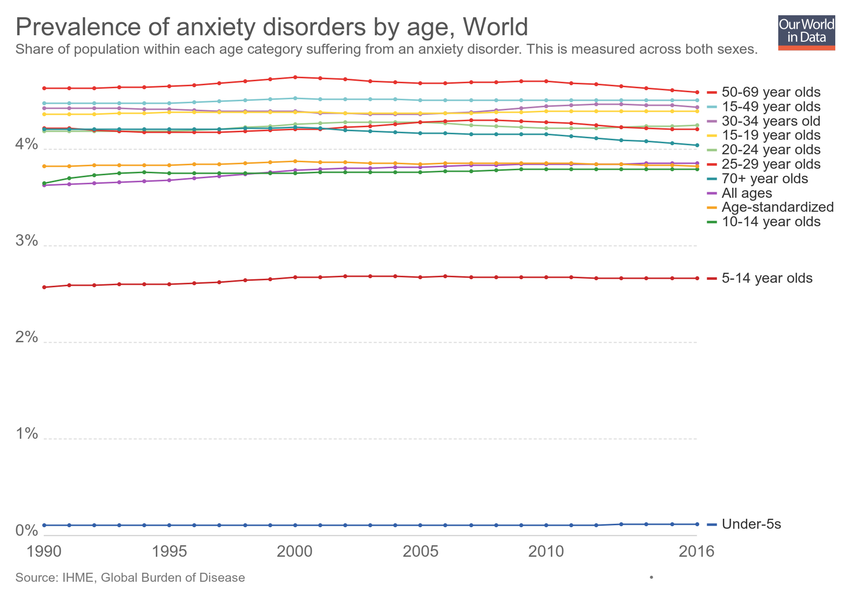
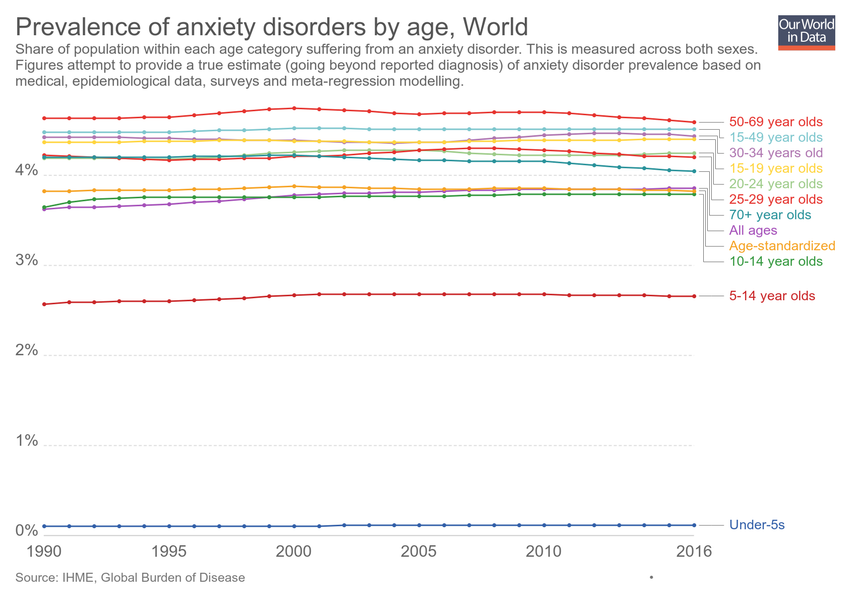
Updating chart prevalence-of-anxiety-disorders-by-age

diff --git a/grapher/rate-of-internationally-observed-elections.html b/grapher/rate-of-internationally-observed-elections.html
@@ -1,4 +1,4 @@
-<!doctype html><html><head><meta name="viewport" content="width=device-width, initial-scale=1" /><title>Internationally observed elections by Western monitors - Our World in Data</title><meta name="description" content="Estimates correspond to the number of international elections that were either observed and criticized by Western monitors, observed and not criticized by Western monitors, or elections that were not observed by Western monitors. Criticism refers to allegations of significant vote-fraud." /><link rel="canonical" href="https://ourworldindata.org/grapher/rate-of-internationally-observed-elections" /><meta property="fb:app_id" content="1149943818390250" /><meta property="og:url" content="https://ourworldindata.org/grapher/rate-of-internationally-observed-elections" /><meta property="og:title" content="Internationally observed elections by Western monitors" /><meta property="og:description" content="Estimates correspond to the number of international elections that were either observed and criticized by Western monitors, observed and not criticized by Western monitors, or elections that were not observed by Western monitors. Criticism refers to allegations of significant vote-fraud." /><meta property="og:image" content="https://ourworldindata.org/grapher/exports/rate-of-internationally-observed-elections.png?v=9" /><meta property="og:image:width" content="850" /><meta property="og:image:height" content="600" /><meta property="og:site_name" content="Our World in Data" /><meta name="twitter:card" content="summary_large_image" /><meta name="twitter:site" content="@OurWorldInData" /><meta name="twitter:creator" content="@OurWorldInData" /><meta name="twitter:title" content="Internationally observed elections by Western monitors" /><meta name="twitter:description" content="Estimates correspond to the number of international elections that were either observed and criticized by Western monitors, observed and not criticized by Western monitors, or elections that were not observed by Western monitors. Criticism refers to allegations of significant vote-fraud." /><meta name="twitter:image" content="https://ourworldindata.org/grapher/exports/rate-of-internationally-observed-elections.png?v=9" /><style>
+<!doctype html><html><head><meta name="viewport" content="width=device-width, initial-scale=1" /><title>Internationally observed elections (%) - Our World in Data</title><meta name="description" content="Percentage of internationally observed elections and whether they were criticized by international observers. Figures cover 1,754 election events in 157 independent states, excluding those with population less than 250,000." /><link rel="canonical" href="https://ourworldindata.org/grapher/rate-of-internationally-observed-elections" /><meta property="fb:app_id" content="1149943818390250" /><meta property="og:url" content="https://ourworldindata.org/grapher/rate-of-internationally-observed-elections" /><meta property="og:title" content="Internationally observed elections (%)" /><meta property="og:description" content="Percentage of internationally observed elections and whether they were criticized by international observers. Figures cover 1,754 election events in 157 independent states, excluding those with population less than 250,000." /><meta property="og:image" content="https://ourworldindata.org/grapher/exports/rate-of-internationally-observed-elections.png?v=16" /><meta property="og:image:width" content="850" /><meta property="og:image:height" content="600" /><meta property="og:site_name" content="Our World in Data" /><meta name="twitter:card" content="summary_large_image" /><meta name="twitter:site" content="@OurWorldInData" /><meta name="twitter:creator" content="@OurWorldInData" /><meta name="twitter:title" content="Internationally observed elections (%)" /><meta name="twitter:description" content="Percentage of internationally observed elections and whether they were criticized by international observers. Figures cover 1,754 election events in 157 independent states, excluding those with population less than 250,000." /><meta name="twitter:image" content="https://ourworldindata.org/grapher/exports/rate-of-internationally-observed-elections.png?v=16" /><style>
         html, body {
             height: 100%;
             margin: 0;
@@ -20,8 +20,8 @@
         }
     </style><noscript><style>
                     figure { display: none !important; }
-                </style></noscript><link rel="stylesheet" href="https://ourworldindata.org/grapher/assets/commons.bundle.ac09ff8f098f0c7be836.css" /><link rel="preload" href="/grapher/data/variables/97399+97400+97401.json?v=9" as="fetch" crossorigin /></head><body class="singleChart"><figure data-grapher-src="/grapher/rate-of-internationally-observed-elections"></figure><noscript id="fallback"><img src="/grapher/exports/rate-of-internationally-observed-elections.svg" /><p>Interactive visualization requires JavaScript</p></noscript><script src="https://cdn.polyfill.io/v2/polyfill.min.js?features=es6,fetch"></script><script src="https://ourworldindata.org/grapher/assets/commons.bundle.ac09ff8f098f0c7be836.js"></script><script src="https://ourworldindata.org/grapher/assets/charts.bundle.dcf65b68eddaba4c6a58.js"></script><script>
-        var jsonConfig = {"id":2598,"map":{"projection":"World","colorSchemeLabels":[],"colorSchemeValues":[],"customNumericColors":[],"customCategoryColors":{},"customCategoryLabels":{},"customHiddenCategories":{}},"tab":"chart","note":"Includes 2435 election events in 162 countries","slug":"rate-of-internationally-observed-elections","type":"StackedArea","title":"Internationally observed elections by Western monitors","xAxis":{"scaleType":"linear"},"yAxis":{"min":0,"scaleType":"linear"},"version":9,"subtitle":"Estimates correspond to the number of international elections that were either observed and criticized by Western monitors, observed and not criticized by Western monitors, or elections that were not observed by Western monitors. Criticism refers to allegations of significant vote-fraud.","hasMapTab":false,"stackMode":"relative","dimensions":[{"display":{"name":"Elections not observed","unit":"elections","shortUnit":""},"property":"y","variableId":97399},{"display":{"name":"Elections observed and criticized"},"property":"y","variableId":97400},{"display":{"name":"Elections observed and not critcized"},"property":"y","variableId":97401}],"hasChartTab":true,"isPublished":true,"selectedData":[{"index":0,"entityId":355},{"index":2,"entityId":355},{"index":1,"entityId":355}],"addCountryMode":"change-country","baseColorScheme":"owid-distinct","invertColorScheme":true,"hideTitleAnnotation":true};
+                </style></noscript><link rel="stylesheet" href="https://ourworldindata.org/grapher/assets/commons.bundle.ac09ff8f098f0c7be836.css" /><link rel="preload" href="/grapher/data/variables/97378+97379.json?v=16" as="fetch" crossorigin /></head><body class="singleChart"><figure data-grapher-src="/grapher/rate-of-internationally-observed-elections"></figure><noscript id="fallback"><img src="/grapher/exports/rate-of-internationally-observed-elections.svg" /><p>Interactive visualization requires JavaScript</p></noscript><script src="https://cdn.polyfill.io/v2/polyfill.min.js?features=es6,fetch"></script><script src="https://ourworldindata.org/grapher/assets/commons.bundle.ac09ff8f098f0c7be836.js"></script><script src="https://ourworldindata.org/grapher/assets/charts.bundle.dcf65b68eddaba4c6a58.js"></script><script>
+        var jsonConfig = {"id":2589,"map":{"projection":"World","colorSchemeLabels":[],"colorSchemeValues":[],"colorSchemeMinValue":0,"customNumericColors":[],"customCategoryColors":{},"customCategoryLabels":{},"customHiddenCategories":{}},"tab":"chart","slug":"rate-of-internationally-observed-elections","type":"StackedArea","title":"Internationally observed elections (%)","xAxis":{"scaleType":"linear"},"yAxis":{"max":80,"min":0,"scaleType":"linear"},"version":16,"subtitle":"Percentage of internationally observed elections and whether they were criticized by international observers. Figures cover 1,754 election events in 157 independent states, excluding those with population less than 250,000.","hasMapTab":false,"stackMode":"absolute","dimensions":[{"display":{"name":"Percent of elections observed and criticised","unit":"%"},"property":"y","variableId":97378},{"display":{"name":"Percent of elections observed and not criticised"},"property":"y","variableId":97379}],"hasChartTab":true,"isPublished":true,"selectedData":[{"index":0,"entityId":355},{"index":1,"entityId":355}],"addCountryMode":"change-country","baseColorScheme":"Plasma","hideRelativeToggle":true,"hideTitleAnnotation":true};
         var figure = document.getElementsByTagName("figure")[0];
         try {
             window.App = {};

diff --git a/grapher/number-with-anxiety-disorders.html b/grapher/number-with-anxiety-disorders.html
@@ -1,4 +1,4 @@
-<!doctype html><html><head><meta name="viewport" content="width=device-width, initial-scale=1" /><title>Number of people with anxiety disorders - Our World in Data</title><meta name="description" content="Number of people with an anxiety disorder, differentiated by sex. This is measured across all ages." /><link rel="canonical" href="https://ourworldindata.org/grapher/number-with-anxiety-disorders" /><meta property="fb:app_id" content="1149943818390250" /><meta property="og:url" content="https://ourworldindata.org/grapher/number-with-anxiety-disorders" /><meta property="og:title" content="Number of people with anxiety disorders" /><meta property="og:description" content="Number of people with an anxiety disorder, differentiated by sex. This is measured across all ages." /><meta property="og:image" content="https://ourworldindata.org/grapher/exports/number-with-anxiety-disorders.png?v=2" /><meta property="og:image:width" content="850" /><meta property="og:image:height" content="600" /><meta property="og:site_name" content="Our World in Data" /><meta name="twitter:card" content="summary_large_image" /><meta name="twitter:site" content="@OurWorldInData" /><meta name="twitter:creator" content="@OurWorldInData" /><meta name="twitter:title" content="Number of people with anxiety disorders" /><meta name="twitter:description" content="Number of people with an anxiety disorder, differentiated by sex. This is measured across all ages." /><meta name="twitter:image" content="https://ourworldindata.org/grapher/exports/number-with-anxiety-disorders.png?v=2" /><style>
+<!doctype html><html><head><meta name="viewport" content="width=device-width, initial-scale=1" /><title>Number of people with anxiety disorders - Our World in Data</title><meta name="description" content="Number of people with an anxiety disorder, differentiated by sex. This is measured across all ages. Figures attempt to provide a true estimate (going beyond reported diagnosis) of the number of people with anxiety disorders based on medical, epidemiological data, surveys and meta-regression modelling." /><link rel="canonical" href="https://ourworldindata.org/grapher/number-with-anxiety-disorders" /><meta property="fb:app_id" content="1149943818390250" /><meta property="og:url" content="https://ourworldindata.org/grapher/number-with-anxiety-disorders" /><meta property="og:title" content="Number of people with anxiety disorders" /><meta property="og:description" content="Number of people with an anxiety disorder, differentiated by sex. This is measured across all ages. Figures attempt to provide a true estimate (going beyond reported diagnosis) of the number of people with anxiety disorders based on medical, epidemiological data, surveys and meta-regression modelling." /><meta property="og:image" content="https://ourworldindata.org/grapher/exports/number-with-anxiety-disorders.png?v=3" /><meta property="og:image:width" content="850" /><meta property="og:image:height" content="600" /><meta property="og:site_name" content="Our World in Data" /><meta name="twitter:card" content="summary_large_image" /><meta name="twitter:site" content="@OurWorldInData" /><meta name="twitter:creator" content="@OurWorldInData" /><meta name="twitter:title" content="Number of people with anxiety disorders" /><meta name="twitter:description" content="Number of people with an anxiety disorder, differentiated by sex. This is measured across all ages. Figures attempt to provide a true estimate (going beyond reported diagnosis) of the number of people with anxiety disorders based on medical, epidemiological data, surveys and meta-regression modelling." /><meta name="twitter:image" content="https://ourworldindata.org/grapher/exports/number-with-anxiety-disorders.png?v=3" /><style>
         html, body {
             height: 100%;
             margin: 0;
@@ -20,8 +20,8 @@
         }
     </style><noscript><style>
                     figure { display: none !important; }
-                </style></noscript><link rel="stylesheet" href="https://ourworldindata.org/grapher/assets/commons.bundle.ac09ff8f098f0c7be836.css" /><link rel="preload" href="/grapher/data/variables/84676+84675.json?v=2" as="fetch" crossorigin /></head><body class="singleChart"><figure data-grapher-src="/grapher/number-with-anxiety-disorders"></figure><noscript id="fallback"><img src="/grapher/exports/number-with-anxiety-disorders.svg" /><p>Interactive visualization requires JavaScript</p></noscript><script src="https://cdn.polyfill.io/v2/polyfill.min.js?features=es6,fetch"></script><script src="https://ourworldindata.org/grapher/assets/commons.bundle.ac09ff8f098f0c7be836.js"></script><script src="https://ourworldindata.org/grapher/assets/charts.bundle.dcf65b68eddaba4c6a58.js"></script><script>
-        var jsonConfig = {"id":2162,"map":{"projection":"World","colorSchemeLabels":[],"colorSchemeValues":[],"defaultProjection":"World","colorSchemeMinValue":0,"customNumericColors":[],"customCategoryColors":{},"customCategoryLabels":{},"customHiddenCategories":{}},"tab":"chart","slug":"number-with-anxiety-disorders","type":"StackedArea","title":"Number of people with anxiety disorders","xAxis":{"scaleType":"linear"},"yAxis":{"min":0,"scaleType":"linear"},"version":2,"subtitle":"Number of people with an anxiety disorder, differentiated by sex. This is measured across all ages.","hasMapTab":false,"stackMode":"absolute","dimensions":[{"display":{"name":"Females","unit":"number suffering from anxiety disorders"},"property":"y","variableId":84676},{"display":{"name":"Males","unit":"number suffering from anxiety disorders"},"property":"y","variableId":84675}],"sourceDesc":"IHME, Global Burden of Disease","hasChartTab":true,"isPublished":true,"selectedData":[{"color":"#818282","index":1,"entityId":355},{"color":"#e6332e","index":0,"entityId":355}],"addCountryMode":"change-country"};
+                </style></noscript><link rel="stylesheet" href="https://ourworldindata.org/grapher/assets/commons.bundle.ac09ff8f098f0c7be836.css" /><link rel="preload" href="/grapher/data/variables/84676+84675.json?v=3" as="fetch" crossorigin /></head><body class="singleChart"><figure data-grapher-src="/grapher/number-with-anxiety-disorders"></figure><noscript id="fallback"><img src="/grapher/exports/number-with-anxiety-disorders.svg" /><p>Interactive visualization requires JavaScript</p></noscript><script src="https://cdn.polyfill.io/v2/polyfill.min.js?features=es6,fetch"></script><script src="https://ourworldindata.org/grapher/assets/commons.bundle.ac09ff8f098f0c7be836.js"></script><script src="https://ourworldindata.org/grapher/assets/charts.bundle.dcf65b68eddaba4c6a58.js"></script><script>
+        var jsonConfig = {"id":2162,"map":{"projection":"World","colorSchemeLabels":[],"colorSchemeValues":[],"colorSchemeMinValue":0,"customNumericColors":[],"customCategoryColors":{},"customCategoryLabels":{},"customHiddenCategories":{}},"tab":"chart","slug":"number-with-anxiety-disorders","type":"StackedArea","title":"Number of people with anxiety disorders","xAxis":{"scaleType":"linear"},"yAxis":{"min":0,"scaleType":"linear"},"version":3,"subtitle":"Number of people with an anxiety disorder, differentiated by sex. This is measured across all ages. Figures attempt to provide a true estimate (going beyond reported diagnosis) of the number of people with anxiety disorders based on medical, epidemiological data, surveys and meta-regression modelling.","hasMapTab":false,"stackMode":"absolute","dimensions":[{"display":{"name":"Females","unit":"number suffering from anxiety disorders"},"property":"y","variableId":84676},{"display":{"name":"Males","unit":"number suffering from anxiety disorders"},"property":"y","variableId":84675}],"sourceDesc":"IHME, Global Burden of Disease","hasChartTab":true,"isPublished":true,"selectedData":[{"color":"#818282","index":1,"entityId":355},{"color":"#e6332e","index":0,"entityId":355}],"addCountryMode":"change-country"};
         var figure = document.getElementsByTagName("figure")[0];
         try {
             window.App = {};
